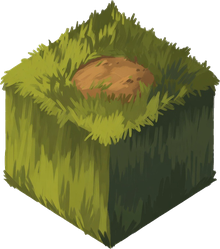
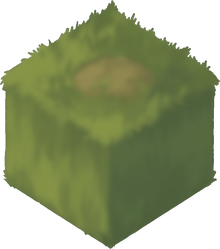
feat(等距农场): 视觉返工第一步——统一土壤+柔化草地+缩小作物
Chris 反馈整体不能接受（土像烂泥/作物叠成团/草像重复被子）。本轮：

1) 土壤统一：空地块原来用偏暗的 p_soil 立方体平铺成「烂泥带」。改成从作物
   精灵里抠出的土块（plot_bed.png，取自黄瓜成熟图的土座）——与作物自带土块
   同款，于是每块地（空地/已种）都是一致的暖色耕地，不再脏乱不搭。
2) 草地去「人字被子」：3 张草块统一做柔化（高斯模糊+降对比+向均匀绿混合 32%），
   平铺重复大幅减弱。
3) 作物缩小（3.2→2.45 高，1.0→0.92 宽）减轻相邻重叠。
4) 空地提示「+」改为低调小号（耕地本身已够清楚）。

仍待改进：多块同时成熟时作物仍会重叠、土块拼接略有台阶感——真正 Hay Day 级
建议后续上「无土纯植株」作物图。本轮已显著更协调。
CACHE_VERSION ef-v39 → ef-v40。

diff --git a/src/js/mapview-iso.js b/src/js/mapview-iso.js
@@ -24,6 +24,7 @@
     crop0: 'crop_qingcai_0.png', crop1: 'crop_qingcai_1.png', crop2: 'crop_qingcai_2.png', crop3: 'crop_qingcai_3.png',
     tile_grass: 'p_grass.png', tile_grass_b: 'p_grass_b.png', tile_grass_c: 'p_grass_c.png',
     tile_soil: 'p_soil.png', tile_path: 'p_path.png', tile_water: 'p_water.png',
+    plot_bed: 'plot_bed.png',
   };
   // Painted iso ground cube tiles. `cy` = fraction of the image height where the
   // diamond-top CENTER sits (so it lands on the cell center; tuned by screenshot).
@@ -484,6 +485,17 @@
       return null;
     },
     _diamond(x, y, tw, th) { const c = this._ctx; c.beginPath(); c.moveTo(x, y - th / 2); c.lineTo(x + tw / 2, y); c.lineTo(x, y + th / 2); c.lineTo(x - tw / 2, y); c.closePath(); },
+    // Clean procedural tilled-soil bed (replaces the muddy p_soil cube tile, which
+    // tiled with dark seams). A flat inset diamond + furrows + a soft raised rim →
+    // neat, distinct Hay-Day plots that tessellate seamlessly.
+    // Empty-plot soil bed: a painted soil cube EXTRACTED from a crop sprite, so it
+    // matches the crops' own baked soil exactly → every plot (empty or planted) is a
+    // consistent raised tilled bed. Bottom-anchored like the crops so heights line up.
+    _tilledDiamond(cx, cy) {
+      const im = this._img.plot_bed, ctx = this._ctx, tw = this._tw(), th = this._th();
+      if (im && im.width) { const w = tw * 1.04, s = w / im.width, hh = im.height * s; ctx.drawImage(im, cx - w / 2, cy + th * 0.6 - hh, w, hh); return; }
+      this._diamond(cx, cy, tw, th); ctx.fillStyle = '#a9743f'; ctx.fill();
+    },
     // Draw a painted cube ground tile centered on cell c (diamond width = TW,
     // ~2% overlap to hide seams), or a flat-diamond fallback while it loads.
     _tileImg(key, c, gx, gy) {
@@ -517,15 +529,16 @@
           const c = this._cell(gx, gy);
           if (c.x + tw < 0 || c.x - tw > W || c.y + th * 4 < 0 || c.y - th * 2 > H) continue;
           const k = gx + ',' + gy;
-          let key = 'grass';
+          let key = 'grass', emptyPlot = false;
           if (plotCells[k]) {
             const pl = Farm.state.data.plots[this._cellToPlot[k]];
-            // empty plot or pixel bok choy → tilled soil tile; painted-crop plots
-            // stay grass (the crop sprite brings its own soil cube).
-            if (pl && pl.unlocked && !(pl.crop && ISO_CROPS[pl.crop])) key = 'soil';
+            // empty unlocked plot → clean tilled bed drawn ON grass (below); planted
+            // painted-crop plots stay grass (the crop sprite brings its own soil cube).
+            if (pl && pl.unlocked && !(pl.crop && ISO_CROPS[pl.crop])) emptyPlot = true;
           }
           if (terrain[k] === 'water') key = 'water'; else if (terrain[k] === 'path') key = 'path';
           this._tileImg(key, c, gx, gy);
+          if (emptyPlot && key === 'grass') this._tilledDiamond(c.x, c.y);
         }
       }
 
@@ -576,17 +589,14 @@
         ctx.font = 'bold ' + (th * 0.42) + 'px "Fredoka",sans-serif'; ctx.fillText('Lv' + (REQUIRED_LV[idx] || 2), c.x, c.y + th * 0.38);
         return;
       }
-      // ground already drew the tilled-soil tile for this cell.
+      // ground already drew the clean tilled bed for this cell; add a small, soft
+      // pulsing "+" hint that you can plant here (subtle — the bed itself reads).
       if (!plot.crop) {
-        // Empty plot → soft pulsing green "+" on a white halo: a clear "tap to
-        // plant here" affordance (the old flat faint "+" was easy to miss).
         const t = Date.now() / 1000, pulse = 0.5 + 0.5 * Math.sin(t * 2 + gx + gy);
-        ctx.beginPath(); ctx.arc(c.x, c.y - th * 0.04, tw * 0.17, 0, Math.PI * 2);
-        ctx.fillStyle = 'rgba(255,255,255,' + (0.2 + pulse * 0.12) + ')'; ctx.fill();
         ctx.textAlign = 'center'; ctx.textBaseline = 'middle';
-        ctx.fillStyle = 'rgba(58,140,80,' + (0.72 + pulse * 0.28) + ')';
-        ctx.font = 'bold ' + (th * 0.5) + 'px "Fredoka",sans-serif';
-        ctx.fillText('+', c.x, c.y - th * 0.04); return;
+        ctx.fillStyle = 'rgba(255,248,232,' + (0.34 + pulse * 0.22) + ')';
+        ctx.font = 'bold ' + (th * 0.42) + 'px "Fredoka",sans-serif';
+        ctx.fillText('+', c.x, c.y); return;
       }
       const p = Farm.crops.getProgress ? Farm.crops.getProgress(plot) : 1, mature = Farm.crops.isMature(plot);
       const by = c.y + th * 0.2;   // sprite stands on the diamond
@@ -595,7 +605,7 @@
       const fr = p >= 1 ? 3 : p >= 0.6 ? 2 : p >= 0.25 ? 1 : 0;
       if (ISO_CROPS[plot.crop]) {   // painted iso 4-stage (sprite includes soil cube)
         const im = this._lazyImg(ISO_CROPS[plot.crop] + '_' + fr);
-        if (!this._blit(im, c.x, c.y + th * 0.62, tw * 1.0, th * 3.2)) { const def = Farm.crops.get(plot.crop); ctx.font = (th * 1.1) + 'px sans-serif'; ctx.fillText((def && def.icon) || '🌿', c.x, by); }
+        if (!this._blit(im, c.x, c.y + th * 0.6, tw * 0.92, th * 2.45)) { const def = Farm.crops.get(plot.crop); ctx.font = (th * 1.1) + 'px sans-serif'; ctx.fillText((def && def.icon) || '🌿', c.x, by); }
       } else if (mature) {
         const im = this._cropSprite(plot.crop);
         if (!this._blit(im, c.x, by, tw * 0.72, th * 1.7)) { const def = Farm.crops.get(plot.crop); ctx.font = (th * 1.1) + 'px sans-serif'; ctx.fillText((def && def.icon) || '🥬', c.x, by); }

diff --git a/service-worker.js b/service-worker.js
@@ -59,7 +59,7 @@ self.addEventListener('notificationclick', (event) => {
   );
 });
 
-const CACHE_VERSION = 'ef-v39';
+const CACHE_VERSION = 'ef-v40';
 const CACHE = 'eastern-farm-' + CACHE_VERSION;
 const PRECACHE = [
   '/src/index.html',
